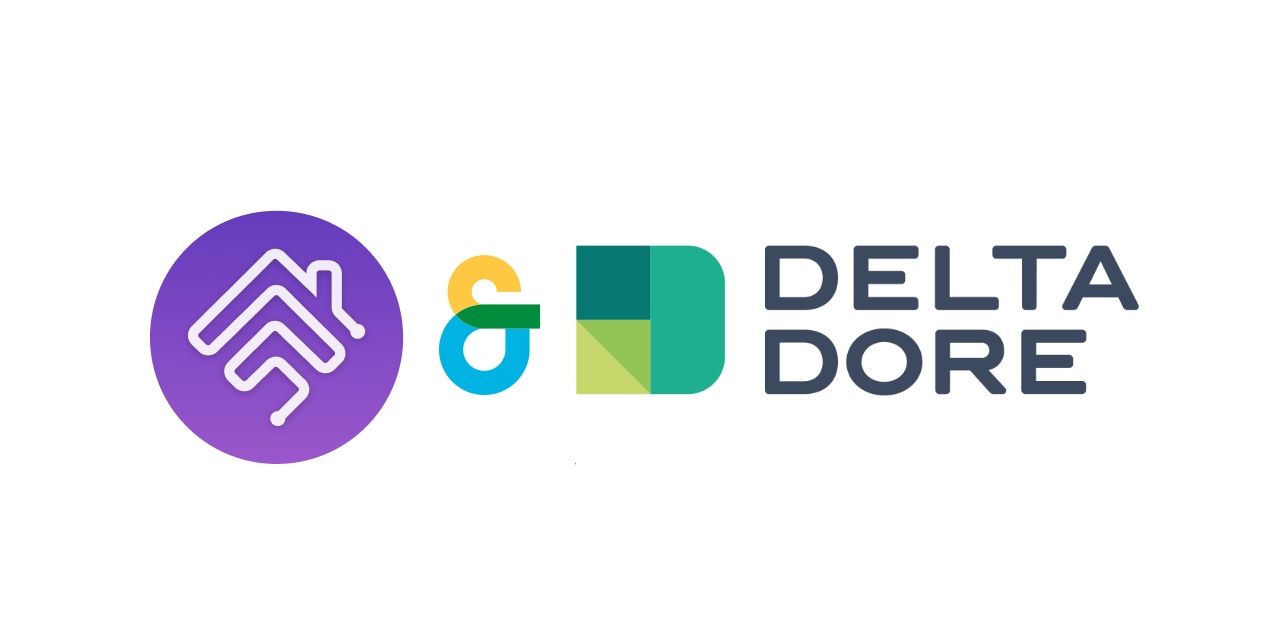
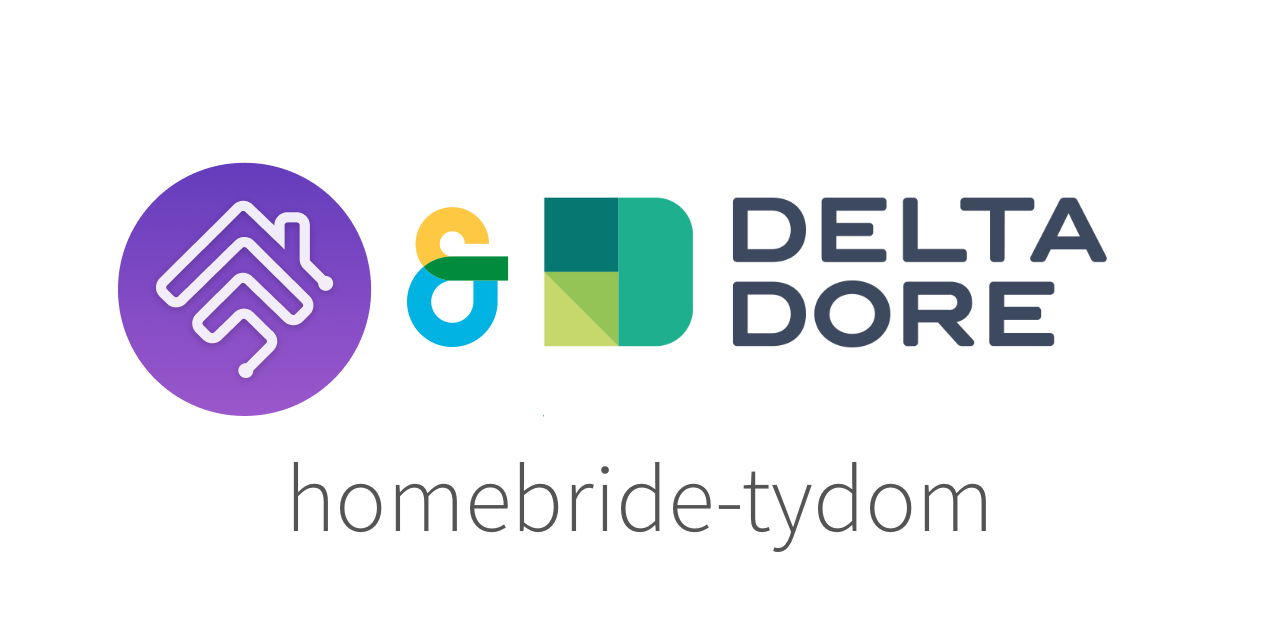
feat(update): minor changes

Changed region(s): [[0.0938, 0.25, 0.9062, 0.875]]

diff --git a/README.md b/README.md
@@ -1,13 +1,26 @@
-# Homebridge Tydom Plugin
+<p align="center">
+  <a href="https://github.com/mgcrea/homebridge-tydom">
+    <img src="https://mgcrea.github.io/homebridge-tydom/homebridge-tydom_small.png" height="320" alt="Homebridge Tydom Logo" />
+  </a>
+</p>
 
-[![npm version](https://img.shields.io/npm/v/homebridge-tydom.svg)](https://github.com/mgcrea/homebridge-tydom/releases)
-[![license](https://img.shields.io/github/license/mgcrea/homebridge-tydom.svg?style=flat)](https://tldrlegal.com/license/mit-license)
-[![build status](https://travis-ci.com/mgcrea/homebridge-tydom.svg?branch=master)](https://travis-ci.com/mgcrea/homebridge-tydom)
-[![dependencies status](https://david-dm.org/mgcrea/homebridge-tydom/status.svg)](https://david-dm.org/mgcrea/homebridge-tydom)
-[![devDependencies status](https://david-dm.org/mgcrea/homebridge-tydom/dev-status.svg)](https://david-dm.org/mgcrea/homebridge-tydom?type=dev)
-[![coverage](https://codecov.io/gh/mgcrea/homebridge-tydom/branch/master/graph/badge.svg)](https://codecov.io/gh/mgcrea/homebridge-tydom)
-
-[![Banner](https://mgcrea.github.io/homebridge-tydom/homebridge-tydom_small.png)](https://mgcrea.github.io/homebridge-tydom/)
+<p align="center">
+  <a href="https://www.npmjs.com/package/homebridge-tydom">
+    <img src="https://img.shields.io/npm/v/homebridge-tydom.svg" alt="Homebridge Tydom NPM Package" />
+  </a>
+  <a href="https://www.npmjs.com/package/homebridge-tydom">
+    <img src="https://img.shields.io/npm/dm/homebridge-tydom.svg" alt="Homebridge Tydom NPM Download Count" />
+  </a>
+  <a href="https://travis-ci.com/mgcrea/homebridge-tydom">
+    <img src="https://travis-ci.com/mgcrea/homebridge-tydom.svg?branch=master" alt="Homebridge Tydom Travis Builds" />
+  </a>
+  <a href="https://david-dm.org/mgcrea/homebridge-tydom">
+    <img src="https://david-dm.org/mgcrea/homebridge-tydom/status.svg" alt="Homebridge Tydom Dependencies" />
+  </a>
+  <a href="https://codecov.io/gh/mgcrea/homebridge-tydom">
+    <img src="https://codecov.io/gh/mgcrea/homebridge-tydom/branch/master/graph/badge.svg" alt="Homebridge Tydom Code Coverage" />
+  </a>
+</p>
 
 [Homebridge](https://homebridge.io/) plugin to easily manage [Tydom hardware](https://www.deltadore.fr/domotique/pilotage-maison-connectee) by [Delta Dore](https://www.deltadore.fr/) from [Apple HomeKit](https://www.apple.com/ios/home/).
 
